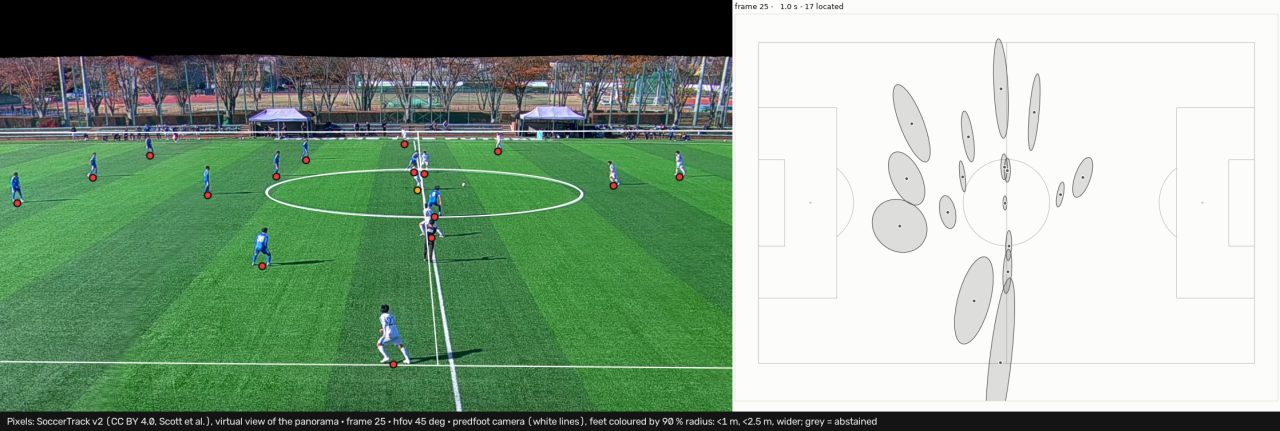
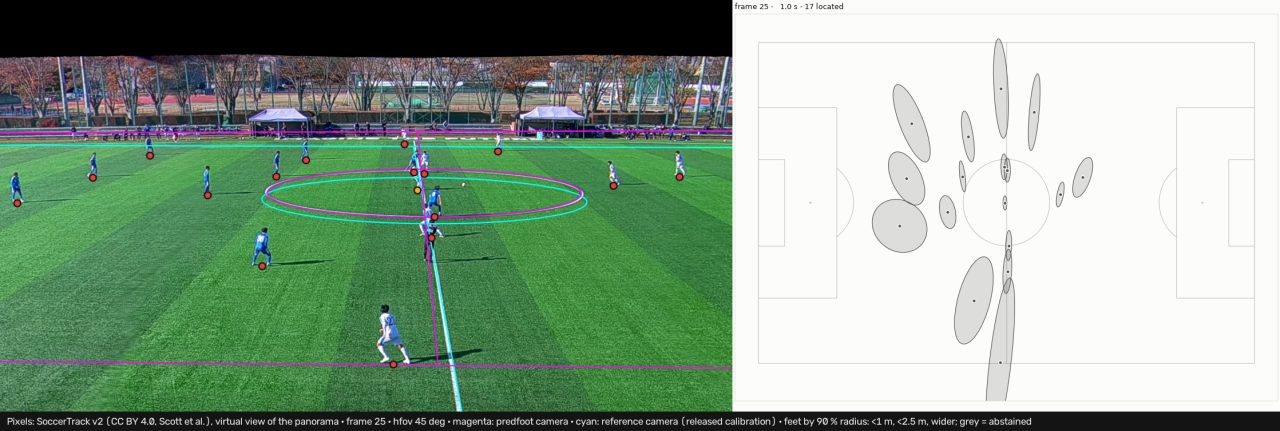
docs(reports): SoccerTrack v2 claims corrected against the runs, new demo still
- Keypoint errors split by group: at the three marked central landmarks
  predfoot beats the released calibration (0.44 m against 2.84 m median),
  at the far touchline it does not (8.6 m against 4.6 m); 12 of the 16
  visible keypoints, not 15, were placed by eye. The reference camera is
  scored on its own fit points, and the report says so.
- Depth scale: one vertical video pixel spans 0.57-0.69 m of pitch at the
  far touchline (0.20-0.24 m at the centre spot), not "about 0.2 m", which
  was the areal scale; the sentences built on it are fixed.
- 117092 rerun with the committed view settings (all 10 frames abstain,
  reference 56 px / 6.3 m); per-match pixel ratios, the q-hat range, the zoom
  stuck at 45 degrees; the inlier count is no longer cited as evidence.
- README: the regions are calibrated on SN-GSR and cover 52 % here (93 %
  near half, 33 % far half, where they are narrower), the feet are
  ground-truth MOT boxes, the "known" camera is the released model, and the
  demo needs the vision extra but no SoccerNet data.
- assets/demo.jpg: predfoot's lines magenta, the reference camera's cyan.

diff --git a/reports/soccertrack_v2.md b/reports/soccertrack_v2.md
@@ -1,17 +1,18 @@
 # SoccerTrack v2: demo pixels and feasibility as a quasi-ground-truth benchmark (T5.D1)
 
 `uv run python scripts/soccertrack_feasibility.py --match <m>` and
-`uv run python scripts/render_demo.py --match 117093 --start 0 --frames 10 --step 5` · commit `638c7ea` ·
+`uv run python scripts/render_demo.py --match <m> --start 0 --frames 10 --step 5` · commit `f5ae948` ·
 data: SoccerTrack v2 release v1.2 (CC BY 4.0), `raw/`, `mot/<m>.txt` and `mot/clips/<m>.mp4` of matches
 117092 (M1, night match) and 117093 (M2, day match). Outputs in `runs/` (not in git).
 
 **Verdict.** The demo works: virtual broadcast views of the panorama are rendered with a known camera and
 SoccerTrack pixels can be published. As a metric benchmark the dataset is **not** quasi-exact. Its released
-calibration misses its own 65 annotated keypoints by 23 px (M1) and 8 px (M2) median in the video. On the far
-half of the pitch one video pixel is about 0.2 m in depth, so that is 2.5 to 3.3 m median on the pitch. A
-virtual camera is exact for the released *model*, not for the real pitch. Usable references are the annotated
-keypoints mapped into each view (true correspondences up to annotation noise) and, at best, the near half of
-the pitch. This is risk R8 of the plan: the benchmark idea is dropped and SoccerTrack stays a demo-pixel source.
+calibration misses its own 65 annotated keypoints by 23 px (M1) and 8 px (M2) median in the video. Back-projected
+to the pitch that is 3.3 m and 2.5 m median, and 5.7 m and 3.7 m at the far touchline, where one vertical video
+pixel spans 0.57 m (M1) and 0.69 m (M2) of pitch. A virtual camera is exact for the released *model*, not for
+the real pitch. Usable references are the annotated keypoints mapped into each view (true correspondences up to
+annotation noise) and, at best, the near half of the pitch. This is risk R8 of the plan: the benchmark idea is
+dropped and SoccerTrack stays a demo-pixel source.
 
 ## What the files are
 
@@ -20,11 +21,11 @@ the pitch. This is risk R8 of the plan: the benchmark idea is dropped and Soccer
 | MOT clip | 3840 × 1906 / 4096 × 1080, H.264, 25 fps, 6000 / 5976 frames. The same pixel space as the half-match panoramas (`CHANGES_v1_1.md`). |
 | Video frame | **Not** a single fisheye image: a stitch of two wide-angle cameras (on 117092 a seam is visible at mid-width on the top border), with strong barrel curvature. Night match under floodlights (M1); daylight (M2). |
 | `mapx.npy`, `mapy.npy` | OpenCV fixed-point remap tables (`int16` (h, w, 2) integer coordinates + `uint16` 32 × 32 interpolation index) from **rectified** pixels to **video** pixels, same size as the video. Decoded with `cv2.convertMaps`, they equal `cv2.fisheye.initUndistortRectifyMap(K, D, I, Knew, size)` to 0.022 px (the 1/32 px grid). 71.5 % / 60.9 % of the rectified pixels fall inside the video. |
-| `camera_intrinsics.npz` | Fisheye `K` (anisotropic: fx 1365 / 1591, fy 946 / 1667 px), `D` = (k1, k2, 0, 0), rectified intrinsics `Knew` (fx 241 / 496 px), and one pose `rvecs`, `tvecs` fitted on the 65 keypoints (provider RMS 30.6 / 8.6 px). `rvecs` and `tvecs` are pickled object arrays: predfoot reads them with an unpickler that only accepts numbers. |
+| `camera_intrinsics.npz` | Fisheye `K` (anisotropic: fx 1365 / 1591, fy 946 / 1667 px), `D` = (k1, k2, 0, 0), rectified intrinsics `Knew` (fx 241 / 496 px), and one pose `rvecs`, `tvecs` fitted on the 65 keypoints (provider RMS 30.6 / 8.6 px, reproduced exactly by the converted pose: `tests/integration/test_soccertrack_data.py`). `rvecs` and `tvecs` are pickled object arrays: predfoot reads them with an unpickler that only accepts numbers. |
 | Camera centre (internal frame) | (0.4, −40.5, 13.5) m / (−1.4, −50.3, 7.1) m: at the halfway line, 6.5 m / 16.3 m behind the near touchline, 13.5 m / 7.1 m high. |
 | `padding_info.csv` | Time, not space: where the match clock starts in the half-match video (ms). Not needed for the MOT clips. |
 | `homography.npy` | Corner-origin pitch metres → **rectified** pixels (SoccerTrack y towards the near touchline). Against the rectified keypoints: median 23.5 / 2.8 px, p90 179 / 18.7 px, only 16 / 33 of 65 points under 3 px (a RANSAC fit that keeps a subset). On the pitch: 4.7 / 1.8 m median. |
-| `keypoints.json` | 65 points in **video** pixels: 21 per touchline every 5.5 m (36 of them are not marked on the pitch and were placed by eye along the line), plus goal lines, boxes, centre line and centre spot (29 landmarks). |
+| `keypoints.json` | 65 points in **video** pixels: 21 per touchline every 5.5 m (36 of them are not marked on the pitch and were placed by eye along the line), plus goal lines, boxes, centre line and centre spot (29 marked landmarks in all). |
 | MOT boxes | Video pixels, top-left `x, y, w, h`, 0-based frames that match the clip's decoded frames; 22 boxes per frame (players and goalkeepers), median box height 41 / 46 px. Foot point = bottom centre (`x + w/2`, `y + h`). 99.6 % of the foot points land within 3 m of the pitch under the released model. |
 
 Pitch frame: the raw files use a corner origin with y towards the near touchline;
@@ -46,23 +47,32 @@ Not to the precision a metric benchmark needs. Residuals at the 65 keypoints (vi
 | One global homography on the same points (median per third) | 21.4, 32.1, 22.0 px | 9.4, 7.5, 8.6 px |
 | Released model + smooth residual field (thin-plate spline), leave-one-out | 8.7 / 30.6 px | 2.5 / 6.5 px |
 
-Metres per video pixel (√|det J|) under the released model: 0.014 / 0.017 at the near touchline, 0.086 / 0.090
-at the centre spot, 0.19 / 0.20 at the far touchline. On M1 the released model puts the centre spot 47.5 px
-below its annotation, about 8 m in depth.
+Metres of pitch per video pixel under the released model, at three points of the halfway line:
+
+| Point | Areal scale √\|det J\|, 117092 / 117093 | Depth scale (largest singular value of J, one vertical pixel), 117092 / 117093 |
+|---|---|---|
+| Near touchline | 0.014 / 0.017 m | 0.020 / 0.026 m |
+| Centre spot | 0.086 / 0.090 m | 0.20 / 0.24 m |
+| Far touchline | 0.19 / 0.20 m | 0.57 / 0.69 m |
+
+The areal scale is the geometric mean of the lateral and depth scales; errors in these views are mostly in
+depth. On M1 the released model puts the centre spot 47.5 px below and 18 px left of its annotation, 8.0 m off
+on the pitch (2.8 m on M2).
 
 So:
 
 - On M2 the rectified panorama is pinhole-like only **locally**: local homographies halve the global
   residual (≈ 4-5 px against ≈ 8-9 px), and a smooth correction field reaches 2.5 px median. On M1 (night,
   poorer annotation and model) nothing gets below about 9 px.
-- Rectified pixels are a poor unit: `Knew` has fx 241 px against 1365 px for the video at its centre, so near
-  the middle one rectified pixel covers about 5.7 video pixels. That is why the virtual views are rendered from
-  the video frame, not from the rectified image.
+- Rectified pixels are a poor unit: `Knew` has fx 241 px (M1) and 496 px (M2) against 1365 px and 1591 px for
+  the video at its centre, so near the middle one rectified pixel covers about 5.7 (M1) and 3.2 (M2) video
+  pixels. That is why the virtual views are rendered from the video frame, not from the rectified image.
 - Virtual pinhole views are exact homographies of the **released model** of the pitch, by construction (unit
   tests: round trips to 0.05 px, a rendered pitch point lands within 0.35 px of its projection). They are not
   exact homographies of the real pitch: the real lines in a view sit where the video puts them, off the
   reference camera's lines by the model error multiplied by the zoom. Even a perfect 2D model would leave the
-  far half at about 0.2 m of depth per video pixel, so 2-3 px of annotation noise is already 0.4-0.6 m there.
+  far touchline at 0.57-0.69 m of pitch depth per vertical video pixel, so 2-3 px of annotation noise is
+  already 1.1-2.1 m there.
 
 ## Virtual broadcast camera
 
@@ -72,43 +82,59 @@ So:
 in two steps: virtual pixel → rectified pixel (rotation homography), then rectified pixel → video pixel (the
 dataset tables, sampled bilinearly). The camera aims at the players' centroid, from the MOT foot points under
 the released model, 6 m nearer the camera, smoothed over 1.5 s. It zooms so that the 10-90 % horizontal spread
-of the players fills 75 % of the half-width, with a horizontal field of view kept between 25° and 45°. MOT foot
-points and annotated keypoints are mapped into each view exactly (the remap is a known bijection).
+of the players fills 75 % of the half-width, with a horizontal field of view kept between 25° and 45°; in the
+smoke frames of both matches the players were spread wide enough to keep it at the 45° limit. MOT foot points
+and annotated keypoints are mapped into each view exactly (the remap is a known bijection).
 
 ## predfoot on virtual views: smoke frames
 
-Ten frames (0, 5, …, 45 of each clip, 0.2 s apart), network inference on each. PnLCalib keypoints and lines →
-robust solver → PTZ smoother (noise parameters reused from the dev run, the median of its six label-free fold
-fits, κ² ≈ 1.94, not refitted) → delta-method positions of the MOT foot points. The 90 % regions use Mondrian
-conformal quantiles fitted on the SN-GSR dev players table (`runs/20261031-153059_c3861c7_ptz/players.parquet`,
-reference: labels; bins: metres per pixel at the feet (3) × RANSAC inliers (2), per covariance source, as in
-`scripts/eval_dev.py`). **This transfers a calibration from SN-GSR broadcast frames to SoccerTrack virtual
-views, a domain shift**: there is no SoccerTrack data to recalibrate on.
+Ten frames (0, 5, …, 45 of each clip, 0.2 s apart), network inference on each, with the committed view
+settings above. PnLCalib keypoints and lines → robust solver → PTZ smoother → delta-method positions of the
+foot points of SoccerTrack's ground-truth MOT boxes (not detections). The smoother's noise parameters (the
+median of its six label-free dev fold fits, κ² ≈ 1.94) and the Mondrian conformal quantiles of the 90 % regions
+come from the SN-GSR dev evaluation, not refitted. They are versioned, aggregate numbers only, in
+`src/predfoot/demo/dev_calibration.json`, written by `scripts/fit_demo_calibration.py` from the dev players
+tables of the PTZ and per-frame runs at commit `c3861c7` (reference: labels; bins: metres per pixel at the feet
+(3) × RANSAC inliers (2), per covariance source, as in `scripts/eval_dev.py`). **This transfers a calibration
+from SN-GSR broadcast frames to SoccerTrack virtual views, a domain shift**: there is no SoccerTrack data to
+recalibrate on.
 
-- **117092 (night):** PnLCalib finds almost nothing (keypoint heatmap maximum 0.07 against a 0.34
-  threshold; 0-3 keypoints even after a gamma or CLAHE boost; no line ends). All 10 frames abstain. The
-  released model misses the annotated keypoints in these views by 46 px (6.3 m) median.
-- **117093 (day):** all 10 frames calibrate, but with only 7-11 inliers (RMS 1.7-4.0 px). The smoother needs
-  10 accepted frames to estimate a projection centre, did not get it, and passed all 10 frames through
-  unsmoothed. The regions therefore come from the per-frame (`frame`) covariance source, whose dev quantiles
-  are large (q̂ = 68 in the bin of these frames, against χ²₂(0.90) = 4.6).
+- **117092 (night):** the raw calibration fails on all 10 frames (0-2 RANSAC inliers), so every frame
+  abstains. An earlier exploratory check on wider views (not rerun) found PnLCalib's keypoint heatmaps peaking
+  near 0.07 against a 0.34 detection threshold, with 0-3 keypoints even after a gamma or CLAHE boost. In these
+  views the released model misses the annotated keypoints by 56 px (6.3 m) median (170 point-views).
+- **117093 (day):** all 10 frames calibrate, with only 7-11 inliers (RMS 1.7-4.0 px). The smoother needs at
+  least 10 frames whose cameras agree on one projection centre; these 10 did not qualify, so it passed all of
+  them through unsmoothed (covariance κ² Σθ). The regions therefore use the dev quantiles of passed-through
+  frames (`frame` source), which are large: q̂ = 68 for 133 of the 173 player-frames, 132 for 24 and 168 for
+  16, against χ²₂(0.90) = 4.6.
 
-| 117093, 10 frames | Ours | Reference camera (released model) |
+| 117093, 10 frames, median / p90 | Ours | Reference camera (released model) |
 |---|---|---|
-| Error at the annotated keypoints in the views (160 point-views, all on the far touchline), px, median / p90 | 29.6 / 92.7 | 11.4 / 15.2 |
-| Same on the pitch, m, median / p90 | 7.97 / 11.45 | 4.18 / 5.52 |
-| Player positions, ours against the reference camera (173 player-frames), m, median / p90 | 3.67 / 8.91 | — |
-| Coverage of our 90 % regions by the reference positions | 52.0 % (near half 92.7 %, n = 55; far half 33.1 %, n = 118) | — |
-| Median calibrated 90 % radius | 4.69 m | — |
+| Error at the annotated keypoints in the views, all 160 point-views, px | 29.6 / 92.7 | 11.4 / 15.2 |
+| ... the 3 marked central landmarks (centre spot, centre circle on the halfway line; 30 point-views), px | 6.8 / 26.9 | 15.2 / 17.2 |
+| ... same, m | 0.44 / 1.38 | 2.84 / 3.50 |
+| ... the 13 far-touchline points (12 of them placed by eye; 130 point-views), px | 35.1 / 97.9 | 10.2 / 12.1 |
+| ... same, m | 8.56 / 11.99 | 4.65 / 5.52 |
+| Player positions, ours against the reference camera (173 player-frames), m | 3.67 / 8.91 | — |
+| ... near half (55) / far half (118), m, median | 2.12 / 4.33 | — |
+| Coverage of our 90 % regions by the reference positions | 52.0 % (near half 92.7 %, far half 33.1 %) | — |
+| Median calibrated 90 % radius | 4.69 m (near half 6.08 m, far half 4.33 m) | — |
+
+The reference camera is scored on its own fit points: the provider fitted that pose on these 65 keypoints, so
+its keypoint errors are training residuals, while predfoot never saw the annotations.
 
 Read these numbers as a smoke check, not a benchmark. There are ten correlated frames, all in the first 2 s of
-one clip, and the field-of-view range and aim offset were chosen by looking at these same frames. The keypoints
-visible in the views all lie on the far touchline (15 of the 16 were placed by eye), where depth resolution is worst. The reference
-itself is metres off on the far half, so the far-half coverage cannot separate our error from its error.
-What the numbers do show: (1) PnLCalib, trained on SoccerNet broadcast, does not transfer to the night
-panorama and transfers weakly to the day one (7-11 inliers against a median of 11 over the dev player-frames, on 1920 × 1080
-broadcast frames); (2) the dev conformal quantiles do not cover the far half of these views. A demo on these
-pixels must therefore show abstentions and wide regions honestly.
+one clip, and the field-of-view range and aim offset were chosen by looking at these same frames. Of the 16
+keypoints visible in the views, 13 lie on the far touchline, where depth resolution is worst, and 3 are marked
+landmarks on the halfway line. The reference itself is metres off on the far half, so the far-half coverage
+cannot separate our error from its error.
+What the numbers do show: (1) PnLCalib, trained on SoccerNet broadcast, gives nothing usable on the night
+panorama. On the day views predfoot calibrates from 7-11 inliers: its camera beats the released calibration at
+the central landmarks (0.44 m against 2.84 m median) but extrapolates badly to the far touchline (8.6 m against
+4.6 m). (2) The dev conformal quantiles cover the near half of these views but not the far half, where our
+regions are also the narrower ones. A demo on these pixels must therefore show abstentions and the far-half
+misfit honestly.
 
 ## What it would take to make it a benchmark
 
@@ -117,5 +143,6 @@ pixels must therefore show abstentions and wide regions honestly.
   views so that the pitch plane follows H_virt exactly.
 - More and better keypoints: line points annotated densely in the video instead of positions placed by eye
   along the touchlines.
-- An evaluation restricted to the near half, where 1 px is 0.02-0.09 m.
+- An evaluation restricted to the near half, where one vertical video pixel spans 0.02-0.03 m of pitch at the
+  near touchline and up to 0.20-0.24 m at the centre spot.
 - A keypoint model fine-tuned or adapted to panorama views (day and night), for predfoot to calibrate at all.

diff --git a/README.md b/README.md
@@ -35,19 +35,27 @@ See [ARCHITECTURE.md](ARCHITECTURE.md) for the pipeline and [CLAUDE.md](CLAUDE.m
 
 ![predfoot on a virtual broadcast view of a SoccerTrack v2 panorama](assets/demo.jpg)
 
-A virtual broadcast camera turns and zooms inside the fixed panorama of SoccerTrack v2 match 117093. Its
-camera is known by construction. predfoot calibrates each view from the pitch lines (white lines), places the
-players' foot points on the pitch and draws their calibrated 90 % regions on the minimap. Foot points are
-coloured by the size of that region. Pixels: SoccerTrack v2 (CC BY 4.0, Scott et al.), cropped and
-reprojected. The still comes from a 10-frame smoke run: the calibration finds only 7-11 inliers per view and the
-regions are wide on the far half. [`reports/soccertrack_v2.md`](reports/soccertrack_v2.md) explains why
-SoccerTrack v2 is a demo source here, not a metric benchmark.
+A virtual broadcast camera turns inside the fixed panorama of SoccerTrack v2 match 117093. Its camera is
+known exactly under SoccerTrack's released calibration (cyan lines), which is itself metres off on the far half
+of the pitch. predfoot calibrates each view from the pitch lines (magenta lines), places the foot points of
+SoccerTrack's ground-truth boxes (not detections) on the pitch and draws their 90 % regions on the minimap;
+foot points are coloured by the size of that region. The regions are calibrated on SN-GSR broadcast frames, not
+on SoccerTrack: against the released calibration they cover 52 % of the positions here, 93 % on the near half
+and 33 % on the far half, where they are also the narrower ones. The still comes from a 10-frame smoke run in
+which the calibration finds only 7-11 inliers per view; on the night match 117092 every frame abstains. Pixels:
+SoccerTrack v2 (CC BY 4.0, Scott et al.), cropped and reprojected.
+[`reports/soccertrack_v2.md`](reports/soccertrack_v2.md) explains why SoccerTrack v2 is a demo source here, not
+a metric benchmark.
 
 ```bash
+uv sync --extra vision
 uv run python scripts/download_data.py soccertrack-v2 --match 117093 --parts raw mot clip
 uv run python scripts/download_data.py pnlcalib-weights
 uv run python scripts/render_demo.py --match 117093 --start 0 --frames 10 --step 5 --fps 5   # runs/<run>/demo.mp4
 ```
+
+The demo needs no SoccerNet data: the noise parameters and conformal quantiles it borrows from the SN-GSR dev
+evaluation are versioned in `src/predfoot/demo/dev_calibration.json` (aggregate numbers only).
 
 ## Real pipeline on a development clip
 

diff --git a/CHANGELOG.md b/CHANGELOG.md
@@ -10,7 +10,9 @@ the project uses [semantic versioning](https://semver.org/).
   `predfoot.io.soccertrack` loaders with conversion to the internal frame, virtual broadcast cameras inside the
   panorama (`predfoot.demo.virtual_camera`), `scripts/render_demo.py` (side-by-side demo video, still, GIF)
   and `reports/soccertrack_v2.md`: the released calibration is metres off on the far half, so SoccerTrack v2
-  is a demo-pixel source, not a metric benchmark.
+  is a demo-pixel source, not a metric benchmark. The demo's noise parameters and conformal quantiles are
+  versioned in `src/predfoot/demo/dev_calibration.json` (`scripts/fit_demo_calibration.py`), so it runs
+  without SN-GSR data; `--no-smooth` uses the per-frame quantiles.
 - Project skeleton: uv, pre-commit, CI, licence check, package layout, coordinate conventions, data contracts,
   ADR-0001 (conventions) and ADR-0002 (licences and data).
 - SkillCorner-format export: record writer and reader with the uncertainty extension fields, image corners
